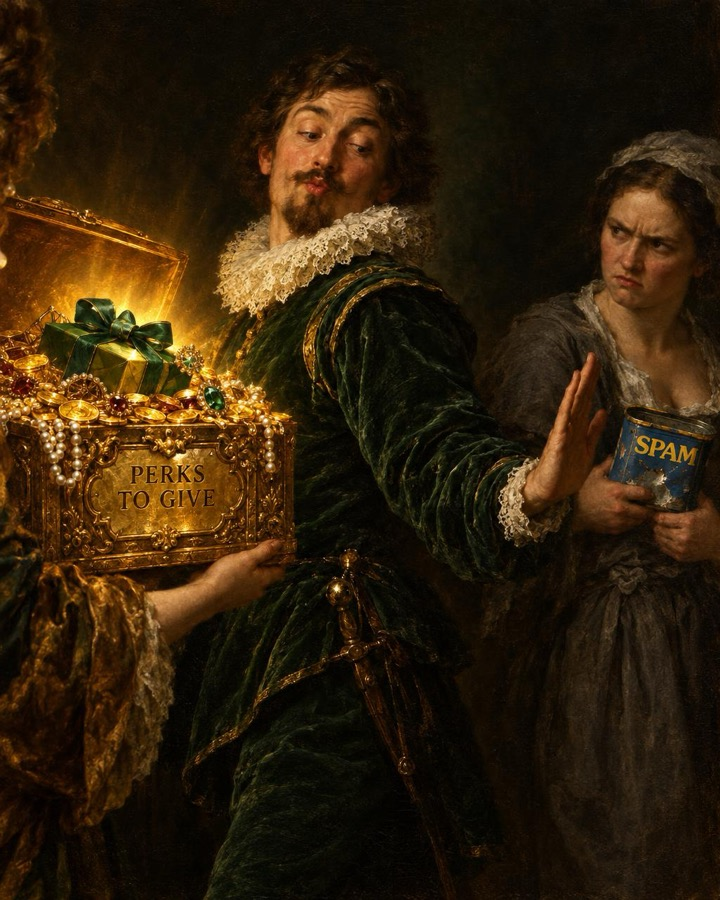
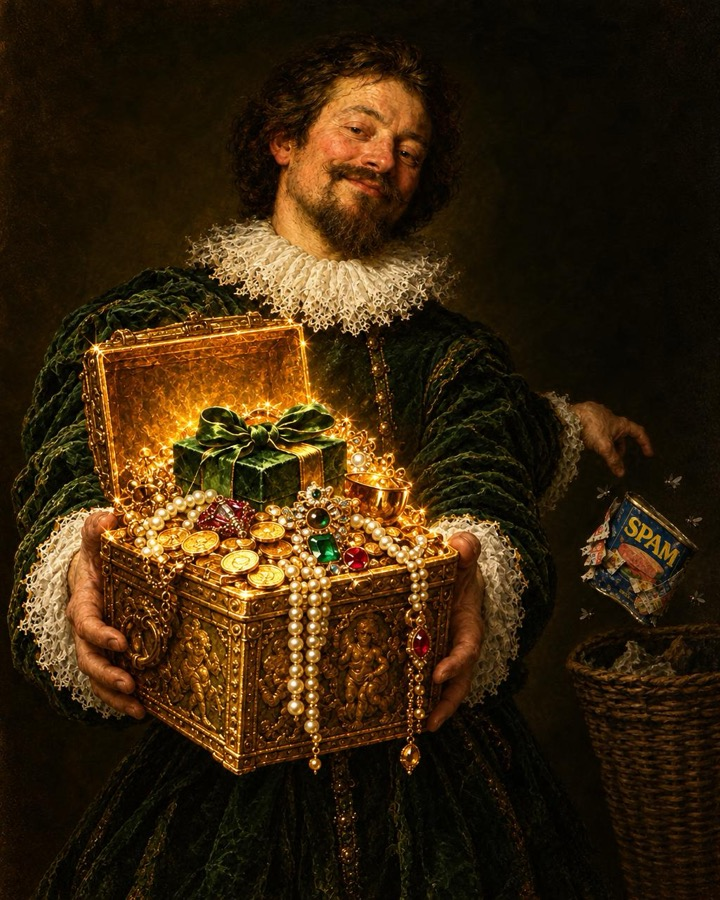
why3: offering gold, spam in bin

diff --git a/x7land/index.html b/x7land/index.html
@@ -338,7 +338,7 @@ nav .links .btn{padding:10px 20px;font-size:14px;font-weight:600;background:var(
  <div class="wg">
   <div class="wc reveal"><div class="frame"><img src="a/why1.jpg" alt=""></div><span class="n">01</span><p>It's impossible for you to review all the new AI tools.</p></div>
   <div class="wc reveal" style="transition-delay:.12s"><div class="frame"><img src="a/why2.jpg" alt=""></div><span class="n">02</span><p>People know what's best for your business. We aggregate all that data.</p></div>
-  <div class="wc reveal" style="transition-delay:.24s"><div class="frame"><img src="a/why3.jpg?v=3" alt=""></div><span class="n">03</span><p>Instead of companies spending money on spamming you, we ask them for perks we can share with you instead.</p></div>
+  <div class="wc reveal" style="transition-delay:.24s"><div class="frame"><img src="a/why3.jpg?v=4" alt=""></div><span class="n">03</span><p>Instead of companies spending money on spamming you, we ask them for perks we can share with you instead.</p></div>
  </div>
 </section>
 <section class="agg" id="agg">
